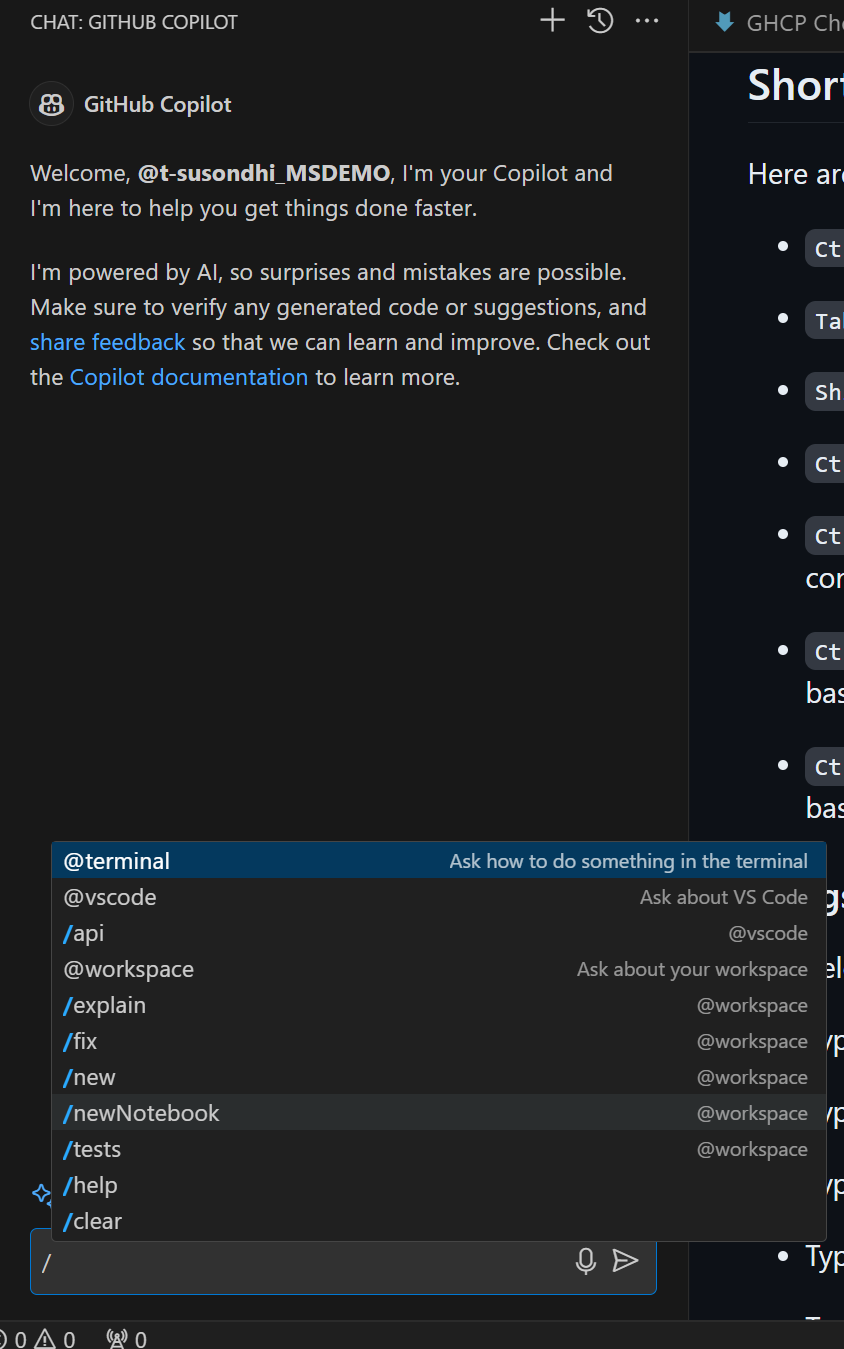
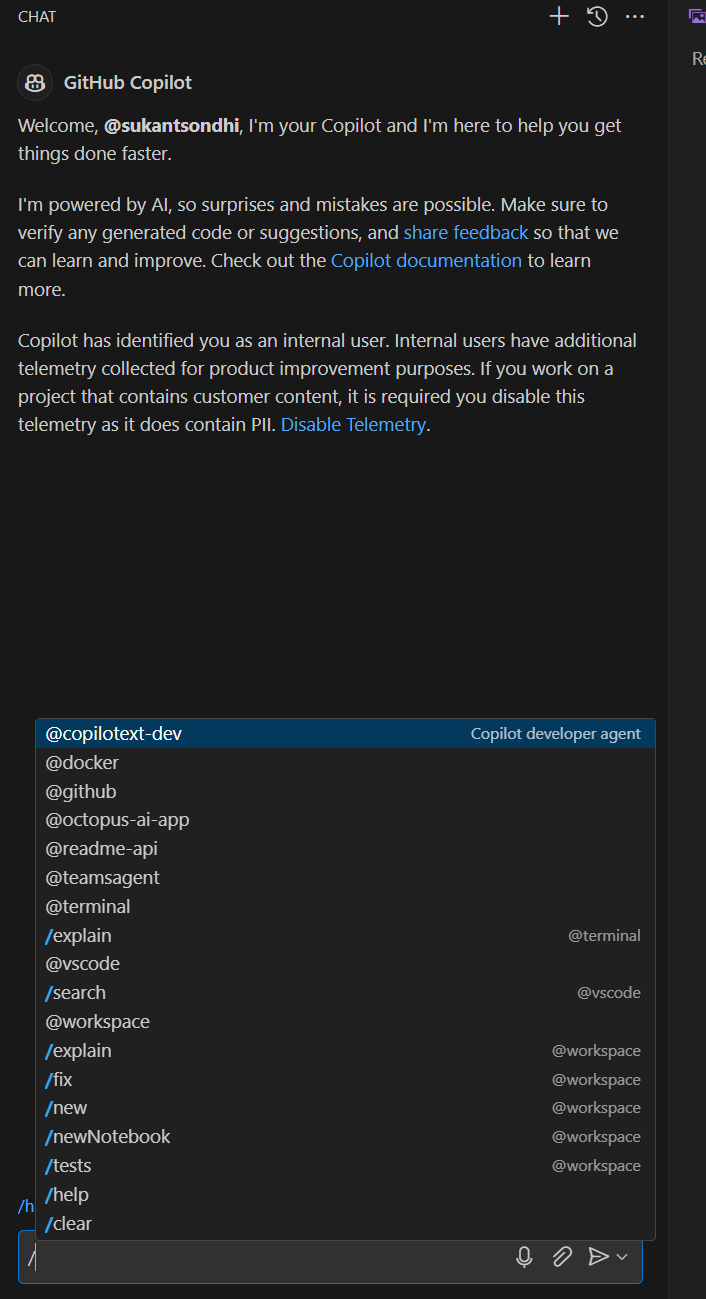
Updated the Cheatsheet and added images

diff --git a/Resources/README.md b/Resources/README.md
@@ -43,13 +43,29 @@ Here are some useful shortcut commands for using GitHub Copilot:
 
 ### "@" Commands
 
+- Type `@workspace` in the chat to run queries on/about workspace.
+
+- Type `@github` in the chat to run queries on/about GitHub.
+
 - Type `@terminal` in the chat to handle/run queries on/about terminal output(s)/error(s).
 
 - Type `@vscode` in the chat to handle/run queries on/about VSCode output(s)/error(s).
 
-- Type `@workspace` in the chat to run queries on/about workspace.
+- Type `@azure` in the chat to handle/run queries on/about Azure output(s)/error(s) and also manage your azure resources and deployments.
+
+- Type `@docker` in the chat to handle/run queries on/about Docker output(s)/error(s) and also manage your docker resources.
+
+- Type `@copilotext-dev` in the chat to handle/run queries on/about Copilot extension. It also helps in developing your own extension(s). 
+
+- Type `@teamsagent` this is an agent that help developer to develop an teams app.
+
+- Type `@readme-api` in the chat to handle/run queries on/about README API output(s)/error(s).
 
 ### "#" Commands
+
+- Type `#kb` in the chat after `@github` to run queries on your knowledge base(s).
+
+- Type `#web` in the chat after `@github` to run queries directly using Bing search..
 
 - Type `#editor` in the chat to handle/run queries on/about editor output(s)/error(s).
 
@@ -60,6 +76,8 @@ Here are some useful shortcut commands for using GitHub Copilot:
 - Type `#TerminalLastCommand` in the chat to handle/run queries on/about the last command in the terminal.
 
 - Type `#TerminlSelection` in the chat to handle/run queries on/about selected terminal output(s)/error(s).
+
+- Type `#vscodeApi` in the chat to handle/run queries on/about VSCode API output(s)/error(s).
 
 ## In-Line Chat Shortcuts
 
@@ -74,6 +92,12 @@ Press `Ctrl + I` to open inline GitHub Copilot Chat
 - Type `/fix` in the chat to get a fixed version of the code.
 
 - Type `/test` in the chat to generate unit test.
+
+## Terminal In-Line Assistance
+
+- Highlight the error message in the terminal and press `Ctrl + I` to open inline GitHub Copilot Chat.
+
+![alt text](image-2.png)
 
 ## Easter Eggs
 

diff --git a/README.md b/README.md
@@ -51,7 +51,7 @@ You can also learn some basics of GitHub Copilot by following the [GitHub Copilo
 
 Follow the excercises in the [GitHub Copilot Playground](./GitHub%20Copilot%20Playground/) to get a feel of how GitHub Copilot works. 🧐
 
-Access the [GitHub Copilot Cheatsheet](./Resources/GHCP%20Cheatsheet.md) 😉 to get a quick reference of the most common commands, shortcuts and some easter eggs. 🐇🥚
+Access the [GitHub Copilot Cheatsheet](./Resources/README.md) 😉 to get a quick reference of the most common commands, shortcuts and some easter eggs. 🐇🥚
 
 ## Certifications and Badges 🏅
 
